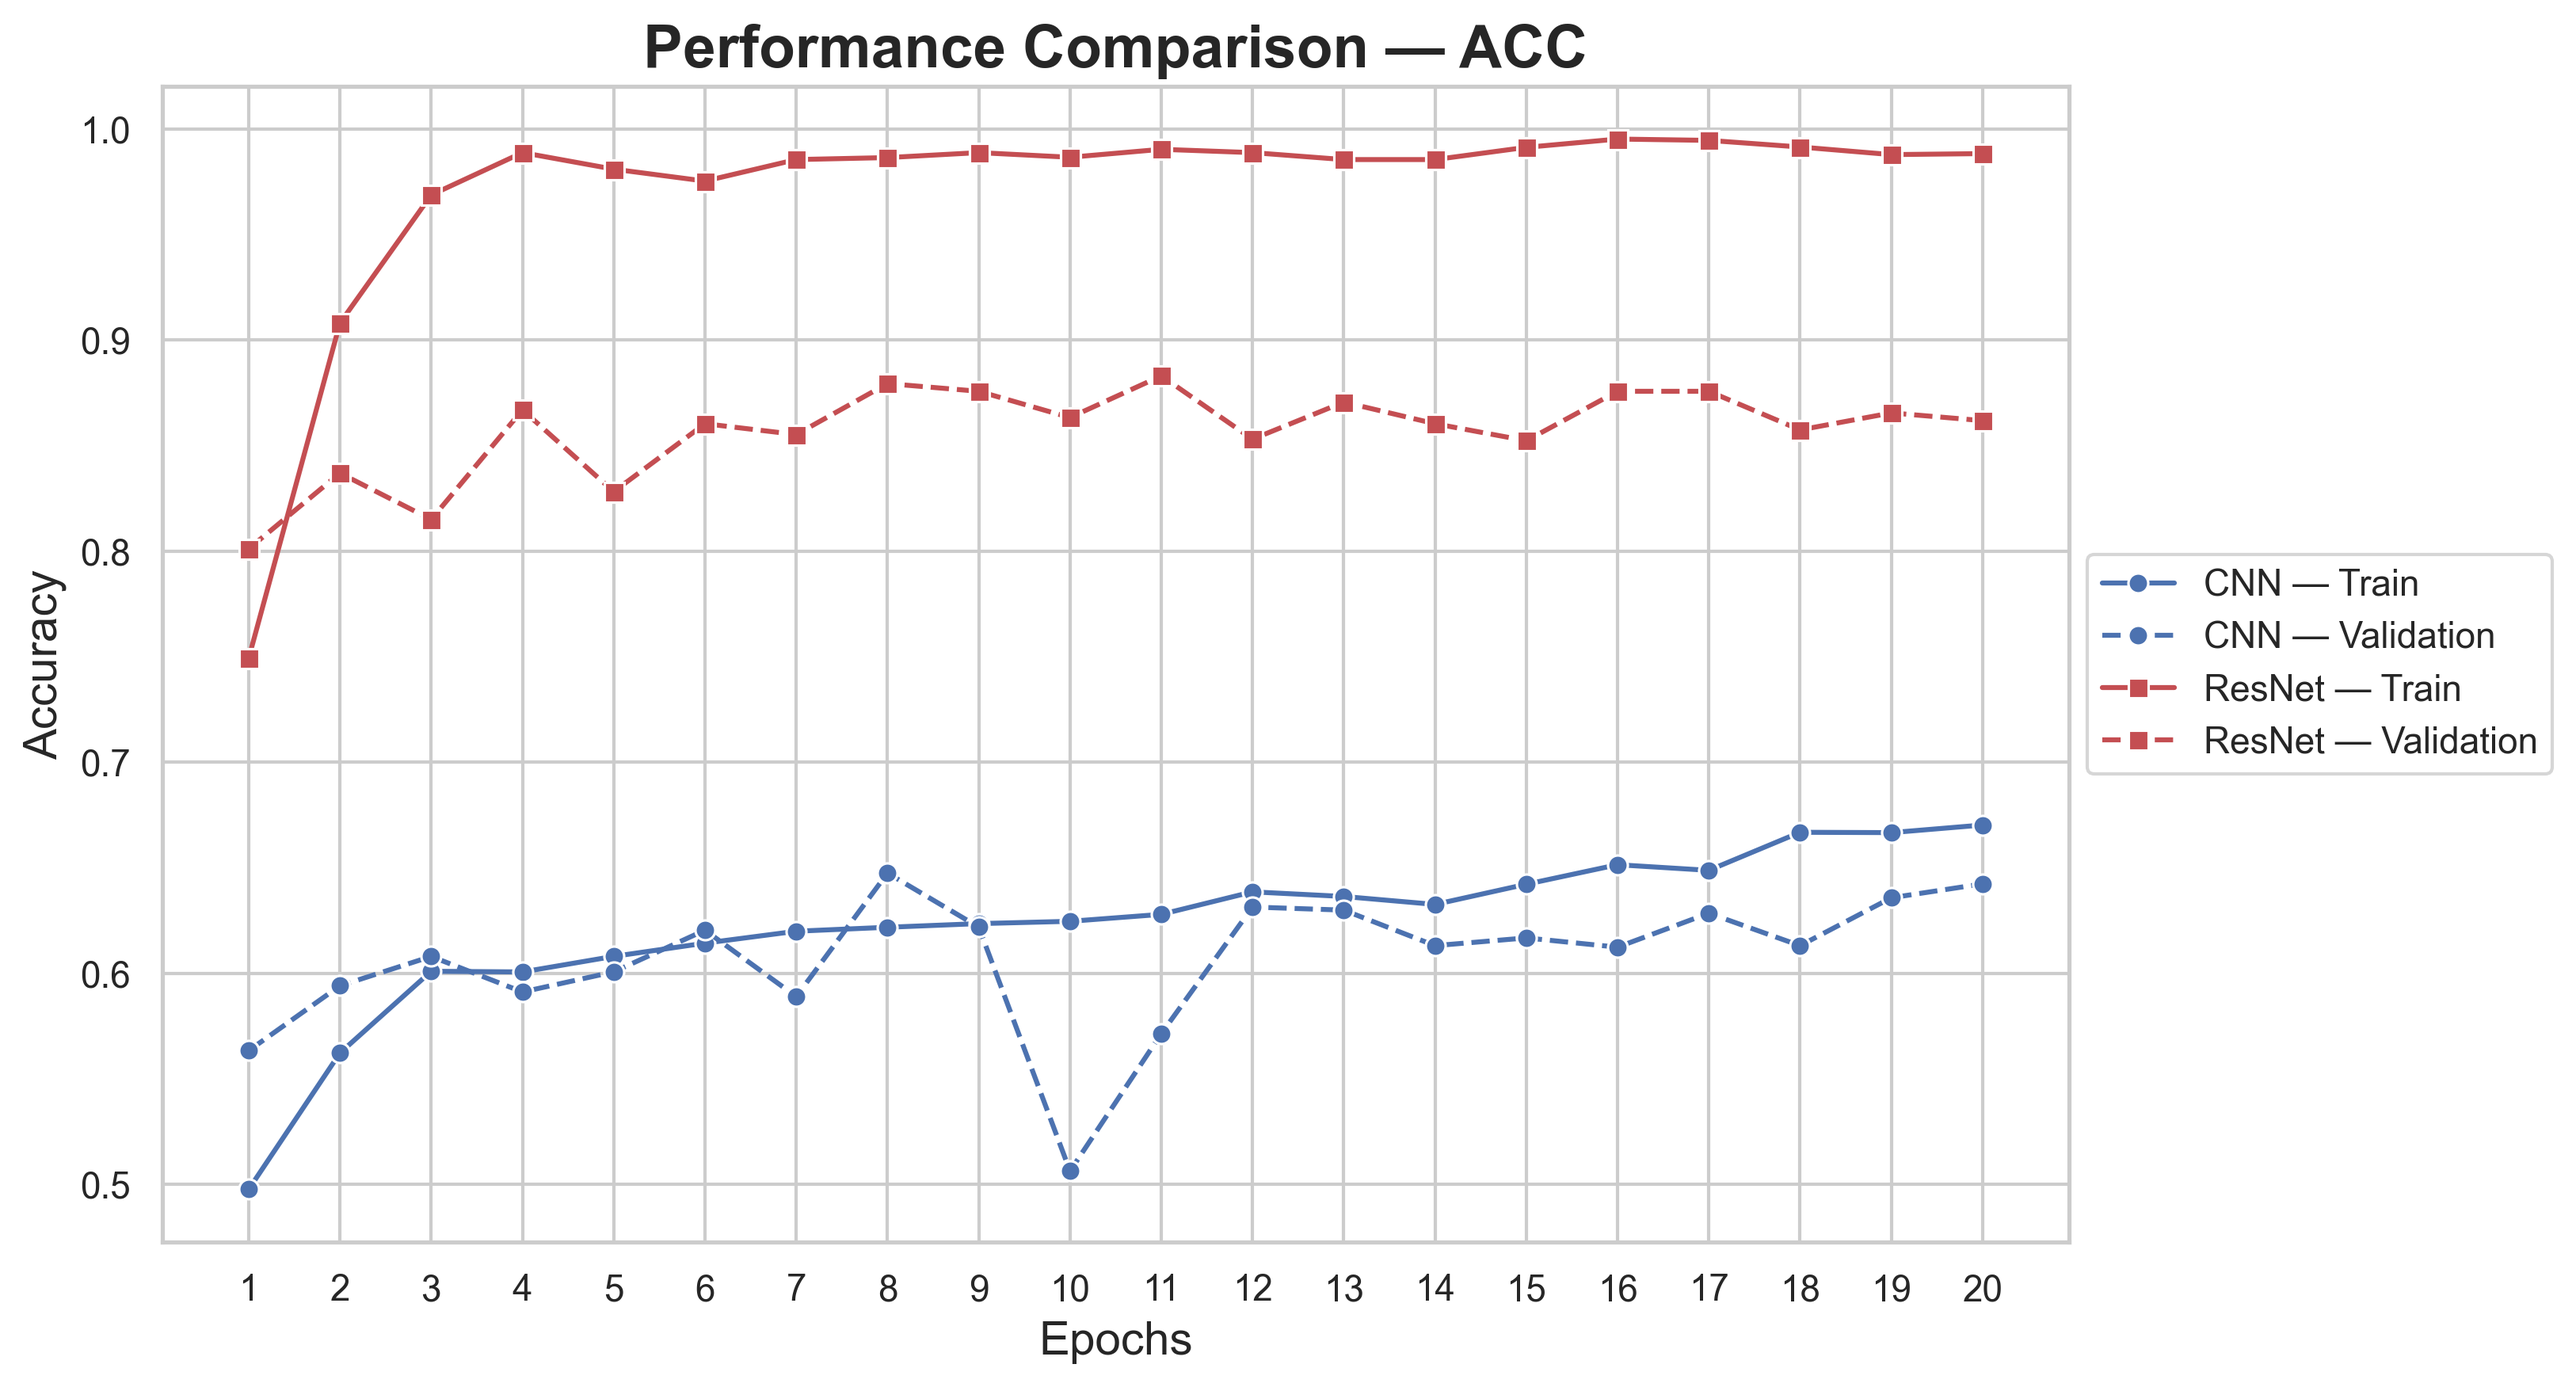
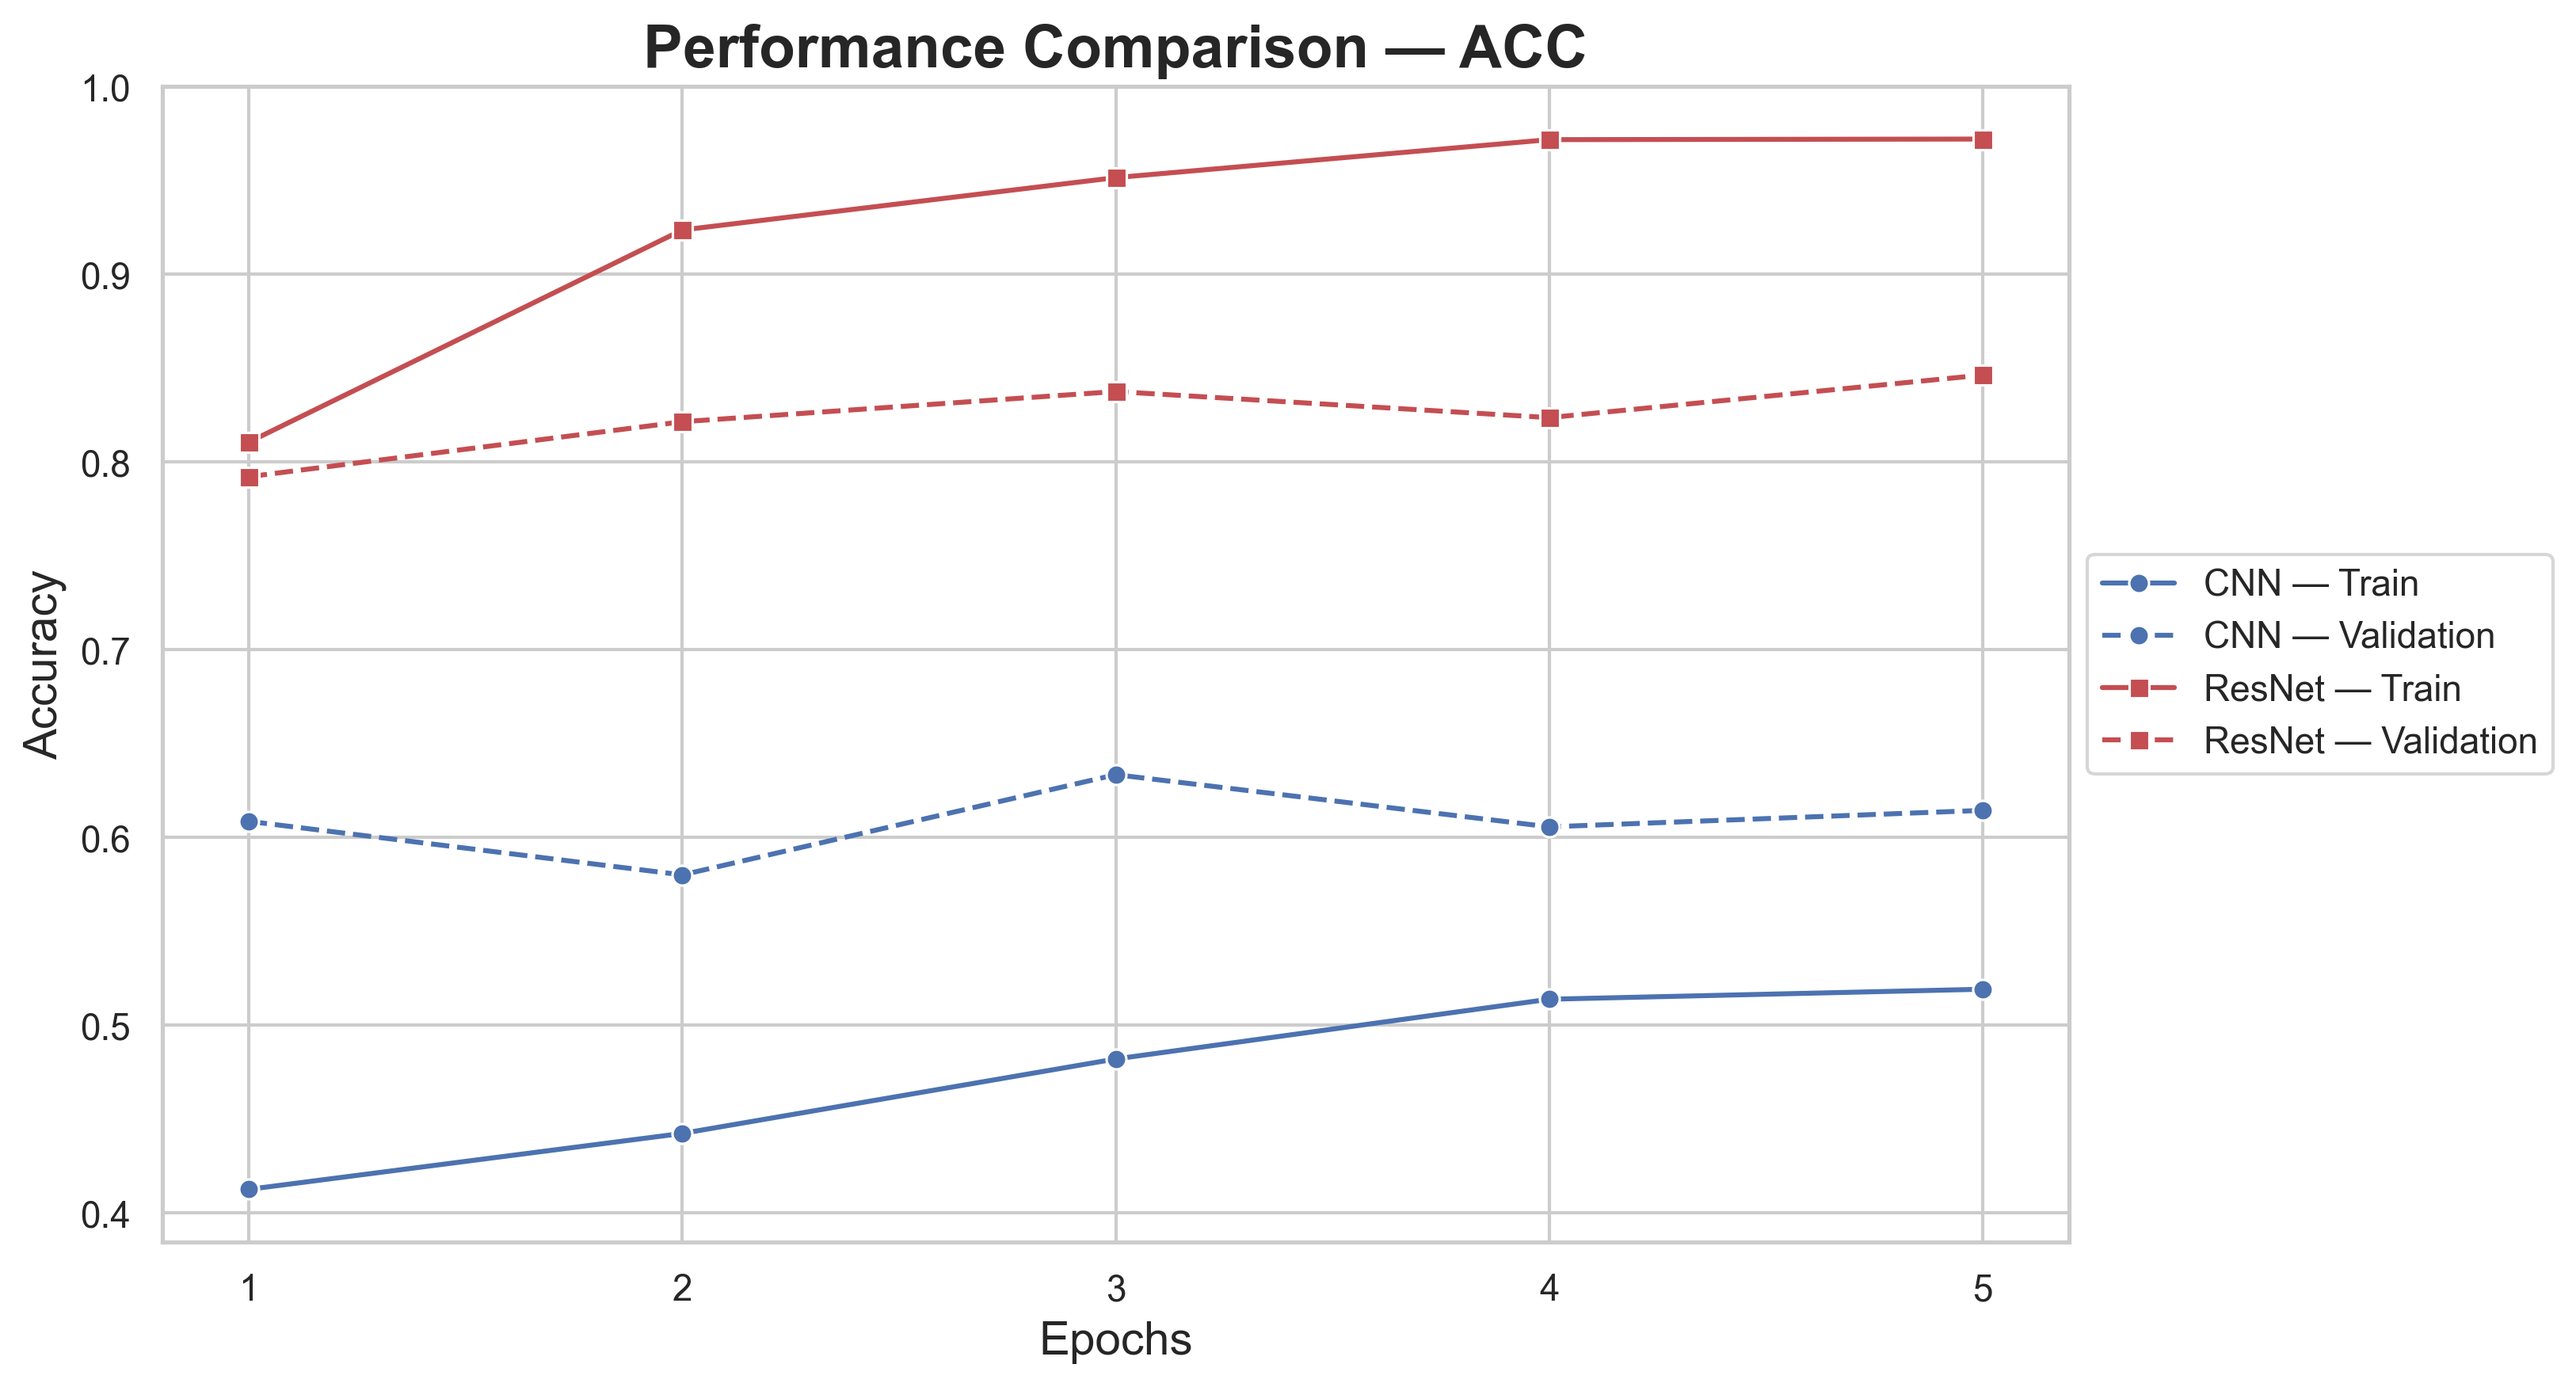
Fix comparable sampling problem

diff --git a/cnn.py b/cnn.py
@@ -1,62 +1,39 @@
 from torch.utils.data import random_split
-from torchvision import datasets, transforms
+from torchvision import transforms
 import torch
 from torch.utils.data import DataLoader
 import torch.nn as nn
 import tqdm as tqdm
-from data_import import path
-
-
-# Base transforms (commons)
-basic_transform = transforms.Compose([
-    transforms.Resize((224, 224)),
-    transforms.ToTensor(),
-])
-
-full_dataset = datasets.ImageFolder(root=path, transform=basic_transform)
-
-# Split proportion
-train_ratio, val_ratio, test_ratio = 0.7, 0.15, 0.15
-n_total = len(full_dataset)
-n_train = int(n_total * train_ratio)
-n_val   = int(n_total * val_ratio)
-n_test  = n_total - n_train - n_val
-
-train_set, val_set, test_set = random_split(
-    full_dataset,
-    [n_train, n_val, n_test],
-    generator=torch.Generator().manual_seed(42)
-)
-
-print("Train :", len(train_set))
-print("Val   :", len(val_set))
-print("Test  :", len(test_set))
+from data_processing import train_set, val_set, test_set, full_dataset, get_balanced_sampler, ApplyTransform
 
 
 # Data augmentation CNN : 
 
 train_transform_cnn = transforms.Compose([
     transforms.Resize((224, 224)),
-    transforms.RandomHorizontalFlip(),
-    transforms.RandomRotation(15),
-    transforms.ColorJitter(brightness=0.1, contrast=0.1),
     transforms.ToTensor(),
+    transforms.Normalize(mean=[0.485, 0.456, 0.406], std=[0.229, 0.224, 0.225])
 ])
 
-
-
-# Dataloaders
+train_data_cnn = ApplyTransform(train_set, transform=train_transform_cnn)
+val_data_cnn   = ApplyTransform(val_set, transform=train_transform_cnn)
+test_data_cnn  = ApplyTransform(test_set, transform=train_transform_cnn)
 
 batch_size = 32
 
-train_loader_cnn = DataLoader(train_set, batch_size=batch_size, shuffle=True)
-val_loader_cnn   = DataLoader(val_set, batch_size=batch_size, shuffle=False)
-test_loader_cnn  = DataLoader(test_set, batch_size=batch_size, shuffle=False)
+train_loader_cnn = DataLoader(
+    train_data_cnn, 
+    batch_size=batch_size, 
+    sampler=get_balanced_sampler(train_set), 
+    shuffle=False
+)
+val_loader_cnn   = DataLoader(val_data_cnn, batch_size=batch_size, shuffle=False)
+test_loader_cnn  = DataLoader(test_data_cnn, batch_size=batch_size, shuffle=False)
 
-
+num_classes = len(full_dataset.class_to_idx)
 
 class PlainCNN(nn.Module):
-    def __init__(self, num_classes=5):
+    def __init__(self, num_classes=num_classes):
         super().__init__()
 
         self.conv_block1 = nn.Sequential(
@@ -82,7 +59,7 @@ class PlainCNN(nn.Module):
 
         self.fc_block = nn.Sequential(
             nn.Flatten(),
-            nn.Linear(128 * 28 * 28, 256),   # après 3 pools : 224 → 112 → 56 → 28
+            nn.Linear(128 * 28 * 28, 256),   # after 3 pools : 224 -> 112 -> 56 -> 28
             nn.ReLU(),
             nn.Dropout(0.5),
             nn.Linear(256, num_classes)
@@ -96,7 +73,7 @@ class PlainCNN(nn.Module):
         return x
 
 
-# Possible to replace mps -> cuda if nvidia
+# Replace mps -> cuda if nvidia
 device = torch.device("mps" if torch.backends.mps.is_available() else "cpu")
 
 print("Device:", device)

diff --git a/resnet.py b/resnet.py
@@ -1,79 +1,47 @@
-from torch.utils.data import random_split
-from torchvision import datasets, transforms, models
-import torch
-import tqdm as tqdm
 from torch.utils.data import DataLoader
 import torch.nn as nn
-from torchvision import models
+from torchvision import models, transforms
+import torch
+from data_processing import train_set, val_set, test_set, full_dataset, get_balanced_sampler, ApplyTransform
 
-from data_split import full_dataset
-from data_split import n_train, n_val, n_test
-from data_import import path
-
+# Define Transforms first
 train_transform_resnet = transforms.Compose([
     transforms.Resize((224, 224)),
-    transforms.RandomHorizontalFlip(),
-    transforms.RandomRotation(15),
     transforms.ToTensor(),
-    transforms.Normalize(
-        mean=[0.485, 0.456, 0.406], 
-        std=[0.229, 0.224, 0.225]
-    )
+    transforms.Normalize(mean=[0.485, 0.456, 0.406], std=[0.229, 0.224, 0.225])
 ])
 
-test_transform_resnet = transforms.Compose([
-    transforms.Resize((224, 224)),
-    transforms.ToTensor(),
-    transforms.Normalize(
-        mean=[0.485, 0.456, 0.406], 
-        std=[0.229, 0.224, 0.225]
-    )
-])
+train_data_res = ApplyTransform(train_set, transform=train_transform_resnet)
+val_data_res   = ApplyTransform(val_set, transform=train_transform_resnet)
+test_data_res  = ApplyTransform(test_set, transform=train_transform_resnet)
 
 
 batch_size = 32
 
-full_dataset_resnet = datasets.ImageFolder(root=path, transform=test_transform_resnet)
-
-train_set_r, val_set_r, test_set_r = random_split(
-    full_dataset_resnet,
-    [n_train, n_val, n_test],
-    generator=torch.Generator().manual_seed(42)
+train_loader_resnet = DataLoader(
+    train_data_res, # wrapped data
+    batch_size=batch_size, 
+    sampler=get_balanced_sampler(train_set), 
+    shuffle=False
 )
 
-train_loader_resnet = DataLoader(train_set_r, batch_size=batch_size, shuffle=True)
-val_loader_resnet   = DataLoader(val_set_r, batch_size=batch_size, shuffle=False)
-test_loader_resnet  = DataLoader(test_set_r, batch_size=batch_size, shuffle=False)
+val_loader_resnet   = DataLoader(val_data_res, batch_size=batch_size, shuffle=False)
+test_loader_resnet  = DataLoader(test_data_res, batch_size=batch_size, shuffle=False)
 
-
+# Model
 class ResNet18Gray(nn.Module):
     def __init__(self, num_classes):
         super().__init__()
-
-        # Pre-trained model
         self.model = models.resnet18(weights=models.ResNet18_Weights.DEFAULT)
-
-        # Last layer adaptation
         self.model.fc = nn.Linear(512, num_classes)
 
     def forward(self, x):
         return self.model(x)
 
-
 device = torch.device("mps")
 num_classes = len(full_dataset.class_to_idx)
-
-
 model_res = ResNet18Gray(num_classes).to(device)
 
-
-
 criterion_res = nn.CrossEntropyLoss()
-
-optimizer_res = torch.optim.Adam(
-    model_res.parameters(),
-    lr=1e-4,            # lr weaker for pre-trained models
-    weight_decay=1e-4
-)
-
+optimizer_res = torch.optim.Adam(model_res.parameters(), lr=1e-4, weight_decay=1e-4)
 

diff --git a/data_processing.py b/data_processing.py
@@ -1,0 +1,63 @@
+from torch.utils.data import random_split
+from torchvision import datasets
+import torch
+import tqdm as tqdm
+import numpy as np
+from torch.utils.data import WeightedRandomSampler
+import kagglehub
+
+def get_balanced_sampler(dataset_subset):
+    # 1. Get all labels in the subset
+    # Since it's a subset, we look at the underlying dataset's targets at specific indices
+    indices = dataset_subset.indices
+    targets = [dataset_subset.dataset.targets[i] for i in indices]
+    
+    # 2. Calculate class weights
+    class_sample_count = np.array([len(np.where(targets == t)[0]) for t in np.unique(targets)])
+    weight = 1. / class_sample_count
+    
+    # 3. Map weights to every sample in the subset
+    samples_weight = np.array([weight[t] for t in targets])
+    samples_weight = torch.from_numpy(samples_weight).double()
+    
+    # 4. Create the sampler
+    sampler = WeightedRandomSampler(samples_weight, len(samples_weight))
+    return sampler
+
+class ApplyTransform(torch.utils.data.Dataset):
+    def __init__(self, subset, transform=None):
+        self.subset = subset
+        self.transform = transform
+        
+    def __getitem__(self, index):
+        x, y = self.subset[index] # x is a PIL image
+        if self.transform:
+            x = self.transform(x)
+        return x, y
+        
+    def __len__(self):
+        return len(self.subset)
+    
+
+path = kagglehub.dataset_download("joebeachcapital/defungi")
+
+print("Path to dataset files:", path)
+
+full_dataset = datasets.ImageFolder(root=path)
+
+# Proportions du split
+train_ratio, val_ratio, test_ratio = 0.7, 0.15, 0.15
+n_total = len(full_dataset)
+n_train = int(n_total * train_ratio)
+n_val   = int(n_total * val_ratio)
+n_test  = n_total - n_train - n_val
+
+train_set, val_set, test_set = random_split(
+    full_dataset,
+    [n_train, n_val, n_test],
+    generator=torch.Generator().manual_seed(42)
+)
+
+print("Train :", len(train_set))
+print("Val   :", len(val_set))
+print("Test  :", len(test_set))

diff --git a/pipeline.py b/pipeline.py
@@ -47,7 +47,7 @@ def validate(model, loader, criterion):
 
 
 
-num_epochs = 20
+num_epochs = 5
 
 # CNN
 
@@ -114,12 +114,10 @@ print("ResNet Test accuracy :", test_acc)
 
 import pickle
 
-# Sauvegarde des résultats CNN
+# Save CNN results
 with open("results/results_cnn.pkl", "wb") as f:
     pickle.dump(results_cnn, f)
 
-# Sauvegarde des résultats ResNet
+# Save ResNet results
 with open("results/results_res.pkl", "wb") as f:
     pickle.dump(results_res, f)
-
-# Columns test_loss and test_acc can be used to produce bar test graph, but will not be used in this analysis
